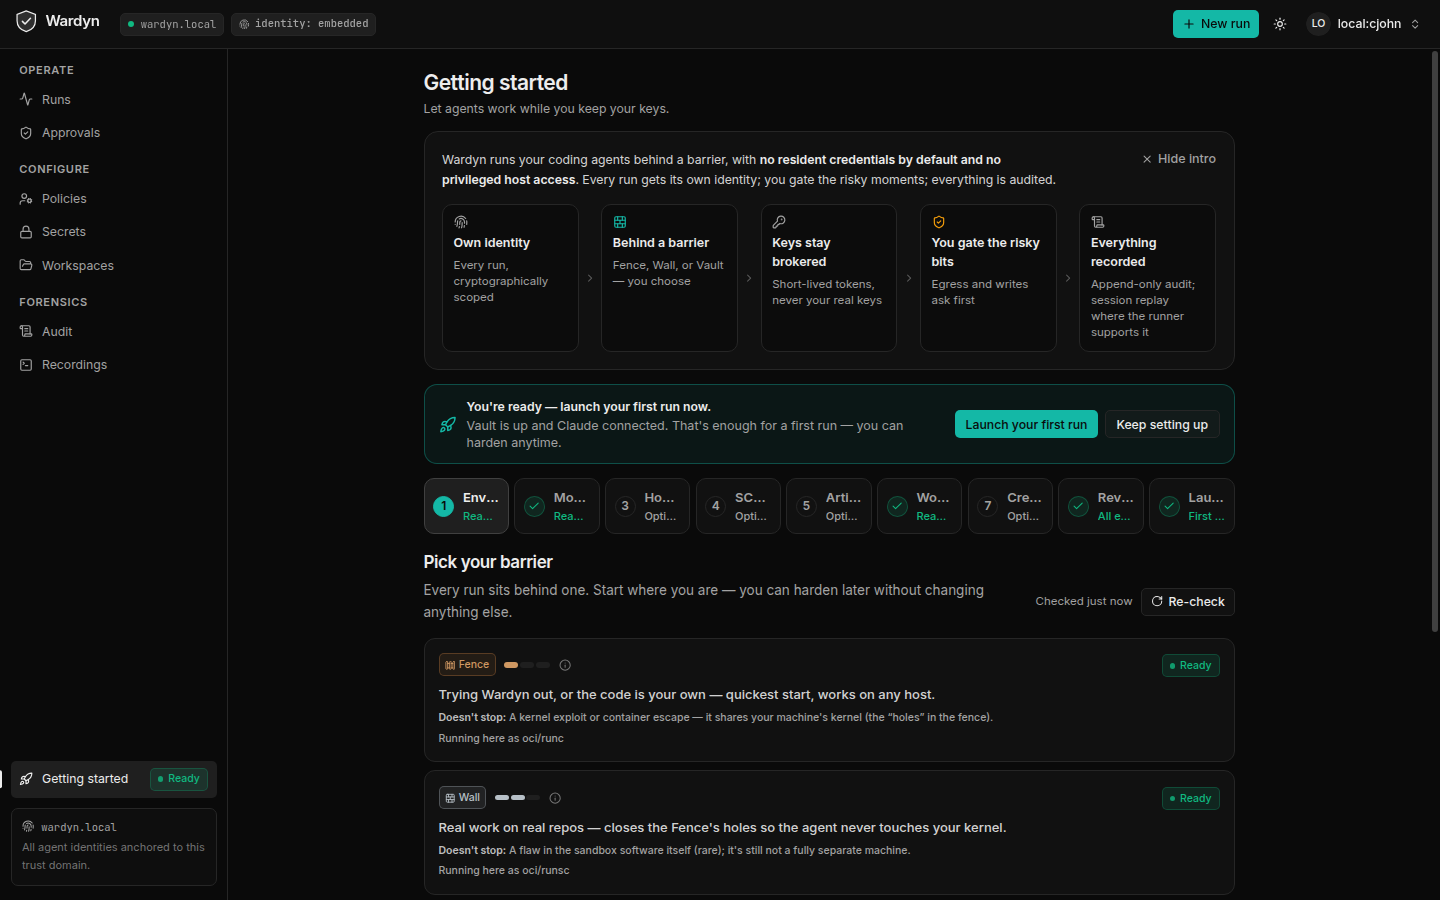
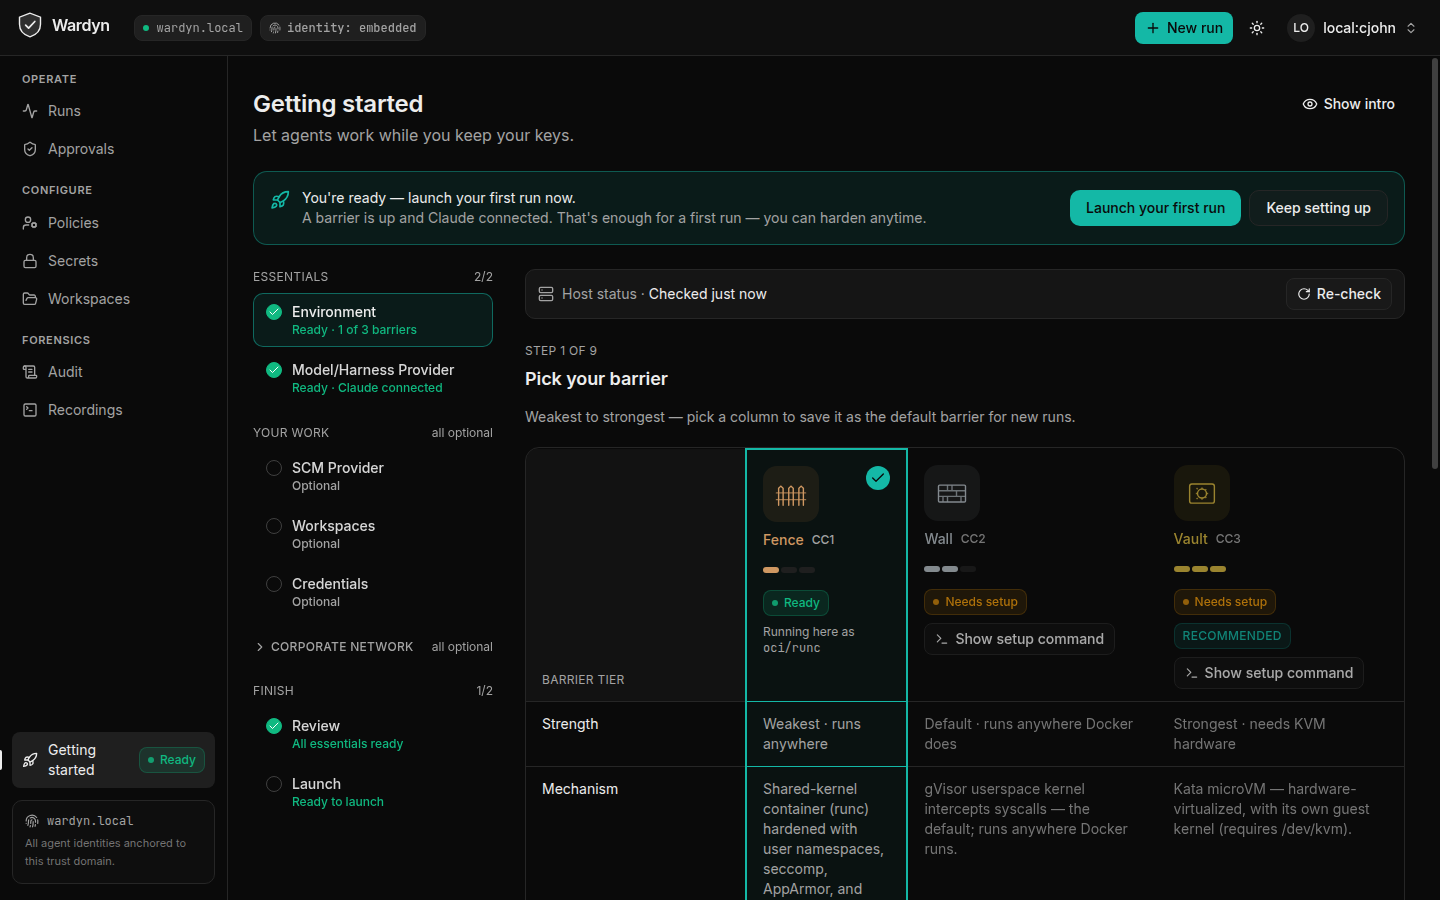
feat(docs): make screenshots — reproducible docs/img capture + 0.2 UI refresh
Second stale-screenshot incident, so the capture is now a make target:
a dedicated Playwright project (1440x900, dark) against its own seeded
backend (:8098 / wardyn_shots), re-staged with presentable run data.
Self-skips without WARDYN_SCREENSHOTS so a bare pnpm e2e can never
clobber the tracked PNGs. Not CI-gated (pixel diffs flake).

Refreshed set: runs-board.png + tier-matrix.png (scripted, new, embedded
from TRY-IT) and getting-started.png (the README hero) recaptured from a
live host-mode instance — the none-runner backend renders a fatal
'no sandbox runner' banner, which photographs as a broken product; the
documented exception in the spec header covers redoing it by hand.

diff --git a/ui/e2e/screenshots/docs.spec.ts b/ui/e2e/screenshots/docs.spec.ts
@@ -1,0 +1,200 @@
+/**
+ * Copyright 2025 The Wardyn Authors
+ * SPDX-License-Identifier: Apache-2.0
+ */
+
+/*
+ * Docs screenshot capture — regenerates the UI PNGs under docs/img that the
+ * README / TRY-IT reference. This is NOT part of the hermetic PR gate: it lives
+ * in its own Playwright `screenshots` project (the chromium gate ignores
+ * screenshots/**), viewport pinned to 1440×900, dark theme forced. Driven by
+ * scripts/screenshots.sh (`make screenshots`) against a dedicated backend
+ * (:8098 / DB wardyn_shots). Run after a visible UI change, then commit the diff.
+ *
+ * There is deliberately NO pixel gate (screenshot diffs flake). MANUAL REVIEW
+ * CHECKLIST — eyeball each regenerated PNG before committing:
+ *   - dark theme (Wardyn's dark-first console), not light
+ *   - 1440×900 viewport, no horizontal/vertical scrollbars in frame
+ *   - no test-fixture strings visible: "e2e fixture N", "wardyn-e2e", seeded
+ *     admin tokens, localhost ports
+ *   - no stray focus rings, hover highlights, or toasts caught mid-capture
+ *   - the intended state is fully shown (cards rendered, dialog fully open)
+ *
+ * A /demos catalog capture is deliberately absent: on this none-runner backend
+ * the demo cards render in their disabled "needs the sandbox runner" state,
+ * which would photograph misleadingly for docs. Add a demos.png block if a
+ * runner-backed capture backend ever exists.
+ */
+
+import { execFileSync } from "node:child_process";
+import { randomUUID } from "node:crypto";
+import { fileURLToPath } from "node:url";
+import path from "node:path";
+import type { Page } from "@playwright/test";
+import { test, expect, gotoConsole, navTo, ADMIN_TOKEN } from "../fixtures";
+
+// Self-skip unless driven by scripts/screenshots.sh: a bare `pnpm e2e` runs ALL
+// projects, and without this guard it would overwrite the tracked docs/img PNGs
+// from the wrong backend (:8088 e2e seed) and fail on the missing wardyn_shots DB.
+test.skip(
+  !process.env.WARDYN_SCREENSHOTS,
+  "docs screenshot capture — run via `make screenshots` (exports WARDYN_SCREENSHOTS=1)",
+);
+
+// docs/img resolved from this file (ui/e2e/screenshots/) so the output path is
+// independent of the process cwd: ../../../docs/img == <repo>/docs/img.
+const DOCS_IMG = path.resolve(path.dirname(fileURLToPath(import.meta.url)), "../../../docs/img");
+
+// Same daemon/db knobs as the sibling SQL-seeding spec (approvals.spec.ts): we
+// talk to the backend's Postgres via `docker exec`. Defaults match the values
+// scripts/screenshots.sh exports (its own DB so it never clobbers the e2e DB).
+const PG_CONTAINER = process.env.WARDYN_E2E_PG_CONTAINER || "wardyn-test-pg";
+const PG_DBNAME = process.env.WARDYN_E2E_PG_DBNAME || "wardyn_shots";
+
+// Run one SQL statement against the backend's Postgres (-tA: tuple-only,
+// unaligned — the caller parses a single scalar trivially).
+function sql(statement: string): string {
+  return execFileSync(
+    "docker",
+    ["exec", "-i", PG_CONTAINER, "psql", "-U", "wardyn", "-d", PG_DBNAME, "-tAc", statement],
+    { encoding: "utf8" },
+  ).trim();
+}
+
+// Presentable runs for the board shot — realistic tasks, a spread of agents and
+// repos. Order matters: the state UPDATE below keys off created (POST) order.
+const PRESENTABLE_RUNS: { agent: string; repo: string; task: string }[] = [
+  { agent: "claude-code", repo: "acme/payments", task: "Fix flaky webhook retry test" },
+  { agent: "codex-cli", repo: "acme/widgets", task: "Migrate CI to pinned Go toolchain" },
+  { agent: "claude-code", repo: "acme/api", task: "Add rate-limit headers to the public API" },
+  { agent: "claude-code", repo: "acme/payments", task: "Upgrade Postgres driver and fix deprecations" },
+  { agent: "codex-cli", repo: "acme/docs", task: "Write release notes for v0.2" },
+  { agent: "claude-code", repo: "acme/platform", task: "Refactor session cache eviction" },
+];
+
+// Swap the stock `e2e fixture N` seed for the presentable set, then diversify
+// states so the board shows a realistic mix. Mirrors the psql+API pattern in
+// approvals.spec.ts / e2e-backend.sh (POST via the API, re-state via SQL).
+async function restagePresentableRuns(page: Page): Promise<void> {
+  // Drop the stock seed (credential_grants + approvals cascade via FK; the seed
+  // creates none for these, so nothing else goes with them).
+  sql("DELETE FROM agent_runs WHERE task LIKE 'e2e fixture%'");
+
+  // POST the realistic runs (they land PENDING under the `none` runner).
+  for (const r of PRESENTABLE_RUNS) {
+    const res = await page.request.post("/api/v1/runs", {
+      headers: { Authorization: `Bearer ${ADMIN_TOKEN}` },
+      data: { agent: r.agent, repo: r.repo, task: r.task },
+    });
+    expect(res.ok(), `POST run "${r.task}" failed (${res.status()})`).toBeTruthy();
+  }
+
+  // 2 RUNNING / 1 WAITING_FOR_CONFIRMATION / 2 COMPLETED / 1 PENDING, keyed by
+  // created order (the e2e-backend.sh UPDATE-by-created-order technique).
+  sql(
+    `WITH ordered AS (
+       SELECT id, row_number() OVER (ORDER BY created_at) AS rn
+       FROM agent_runs WHERE task NOT LIKE 'e2e fixture%'
+     )
+     UPDATE agent_runs a SET state = v.state
+     FROM ordered o
+     JOIN (VALUES
+       (1,'RUNNING'),(2,'RUNNING'),(3,'WAITING_FOR_CONFIRMATION'),
+       (4,'COMPLETED'),(5,'COMPLETED'),(6,'PENDING')
+     ) AS v(rn,state) ON v.rn = o.rn
+     WHERE a.id = o.id`,
+  );
+
+  // One PENDING approval bound to the WAITING run so the board's attention badge
+  // and the Approvals count read true (INSERT shape from approvals.spec.ts).
+  const waitingId = sql(
+    "SELECT id FROM agent_runs WHERE state = 'WAITING_FOR_CONFIRMATION' ORDER BY created_at LIMIT 1",
+  );
+  if (waitingId) {
+    sql(
+      `INSERT INTO approvals (id, run_id, kind, requested_scope, state, requested_at)
+       VALUES ('${randomUUID()}', '${waitingId}', 'egress_domain', '{"domain":"api.stripe.com","port":443}'::jsonb, 'PENDING', now())`,
+    );
+  }
+}
+
+// Drop focus rings + hover highlights and let transitions finish before the shot.
+async function settle(page: Page): Promise<void> {
+  await page.evaluate(() => (document.activeElement as HTMLElement | null)?.blur());
+  await page.mouse.move(0, 0);
+  await page.waitForTimeout(400);
+}
+
+test.describe("Docs screenshots", () => {
+  test.beforeEach(async ({ page }) => {
+    // Force the dark-first console deterministically (theme-provider.tsx storage
+    // key), before first navigation — same addInitScript pattern as the admin
+    // token in fixtures.ts.
+    await page.addInitScript(() => {
+      try {
+        localStorage.setItem("wardyn-theme", "dark");
+      } catch {
+        /* private mode — ignore */
+      }
+    });
+  });
+
+  // getting-started.png is NOT captured here: on this none-runner backend the
+  // barrier picker renders a red "No sandbox runner — runs can't launch" fatal
+  // banner with zero tiers ready, which photographs as a broken product. That
+  // hero is captured MANUALLY from a live host-mode instance (make setup, real
+  // docker runner → Fence genuinely Ready, Wall/Vault honestly "Needs setup"),
+  // /setup → "Finish setup", 1440×900 dark — the documented exception to the
+  // scripted set. Re-do it by hand after a visible funnel redesign.
+
+  // runs-board.png (new): the Runs board after re-staging presentable data.
+  test("runs-board.png — populated runs board", async ({ page }) => {
+    await restagePresentableRuns(page);
+    await gotoConsole(page);
+    await expect(page.getByRole("heading", { name: "Runs", level: 1 })).toBeVisible();
+    // Wait for the re-staged cards to render (first + last of the set).
+    await expect(page.getByText("Fix flaky webhook retry test")).toBeVisible();
+    await expect(page.getByText("Refactor session cache eviction")).toBeVisible();
+    // The sidebar Getting-started chip polls setup status — don't capture its
+    // transient "Checking..." state.
+    await expect(page.getByText(/Checking/)).toHaveCount(0, { timeout: 10_000 });
+    await settle(page);
+    await page.screenshot({ path: path.join(DOCS_IMG, "runs-board.png") });
+  });
+
+  // tier-matrix.png (new): the New Run wizard → Confinement → "Compare all
+  // three" barrier matrix dialog. Navigation is self-contained (no imports from
+  // wizard.spec.ts — a parallel agent is editing it + the wizard's workspace
+  // validation); we only replicate the few selectors we need.
+  test("tier-matrix.png — barrier compare matrix", async ({ page }) => {
+    await gotoConsole(page);
+    const dlg = page.getByRole("dialog");
+
+    // Open "New run". With composer backends seeded (e2e-backend.sh), the chooser
+    // appears first → reach the manual wizard via "Configure manually".
+    const backends = page.waitForResponse((r) => /\/composer\/backends/.test(r.url()));
+    await page.getByRole("button", { name: "New run" }).click();
+    await backends;
+    await expect(dlg.getByRole("heading", { name: "New run" })).toBeVisible();
+    const manual = dlg.getByRole("button", { name: /Configure manually/ });
+    if (await manual.isVisible().catch(() => false)) await manual.click();
+    await expect(dlg.getByText("Workspaces", { exact: true })).toBeVisible();
+
+    // Attach the seeded `payments` workspace (optional after the parallel wizard
+    // change, but gives nicer data + keeps Next un-gated either way). The option
+    // list renders in a portal OUTSIDE the wizard dialog.
+    await dlg.getByRole("combobox", { name: /Add a workspace/ }).click();
+    await page.getByRole("option", { name: /payments/ }).click();
+
+    // Basics → Access → Egress → Confinement (defaults are all valid).
+    for (let i = 0; i < 3; i++) await dlg.getByRole("button", { name: "Next" }).click();
+    await expect(dlg.getByText("Barrier").first()).toBeVisible();
+
+    // Open the tier matrix (step-confinement.tsx "Compare all three →").
+    await dlg.getByRole("button", { name: /Compare all three/ }).click();
+    const matrix = page.getByRole("dialog", { name: /Compare the three barriers/ });
+    await expect(matrix.getByText(/Isolated from your files/).first()).toBeVisible();
+    await settle(page);
+    await page.screenshot({ path: path.join(DOCS_IMG, "tier-matrix.png") });
+  });
+});

diff --git a/ui/playwright.config.ts b/ui/playwright.config.ts
@@ -5,7 +5,7 @@
 
 import { defineConfig, devices } from "@playwright/test";
 
-// Playwright E2E config — TWO projects:
+// Playwright E2E config — THREE projects:
 //
 //   chromium (hermetic, the default): specs in ui/e2e/ drive the built UI against
 //   a seeded test backend (real wardynd + Postgres + the `none` runner, seeded
@@ -47,7 +47,7 @@ export default defineConfig({
     video: "retain-on-failure",
   },
   projects: [
-    { name: "chromium", testIgnore: "live/**", use: { ...devices["Desktop Chrome"] } },
+    { name: "chromium", testIgnore: ["live/**", "screenshots/**"], use: { ...devices["Desktop Chrome"] } },
     {
       name: "live",
       // *.spec.ts only — a bare "live/**" would classify live-fixtures.ts as a
@@ -59,6 +59,19 @@ export default defineConfig({
       use: {
         ...devices["Desktop Chrome"],
         baseURL: process.env.WARDYN_E2E_LIVE_BASE_URL || "http://localhost:8080",
+      },
+    },
+    {
+      // screenshots: regenerates the docs/img UI PNGs (e2e/screenshots/docs.spec.ts)
+      // against the dedicated backend booted by scripts/screenshots.sh. Its own
+      // project so the hermetic chromium gate never runs it (chromium's testIgnore
+      // drops screenshots/**). Fixed 1440×900 viewport for stable doc images.
+      // Run: `make screenshots` (NOT in CI — no pixel gate).
+      name: "screenshots",
+      testMatch: "screenshots/**/*.spec.ts",
+      use: {
+        ...devices["Desktop Chrome"],
+        viewport: { width: 1440, height: 900 },
       },
     },
   ],

diff --git a/CONTRIBUTING.md b/CONTRIBUTING.md
@@ -137,6 +137,8 @@ make ui                   # production build (vite)
 ./scripts/run-ui-e2e.sh   # Playwright e2e (starts Postgres + wardynd, mocked model)
 ```
 
+UI visibly changed? Run `make screenshots` and commit the updated `docs/img` PNGs.
+
 ## Questions?
 
 Open an issue or reach out to the maintainers. We're here to help!